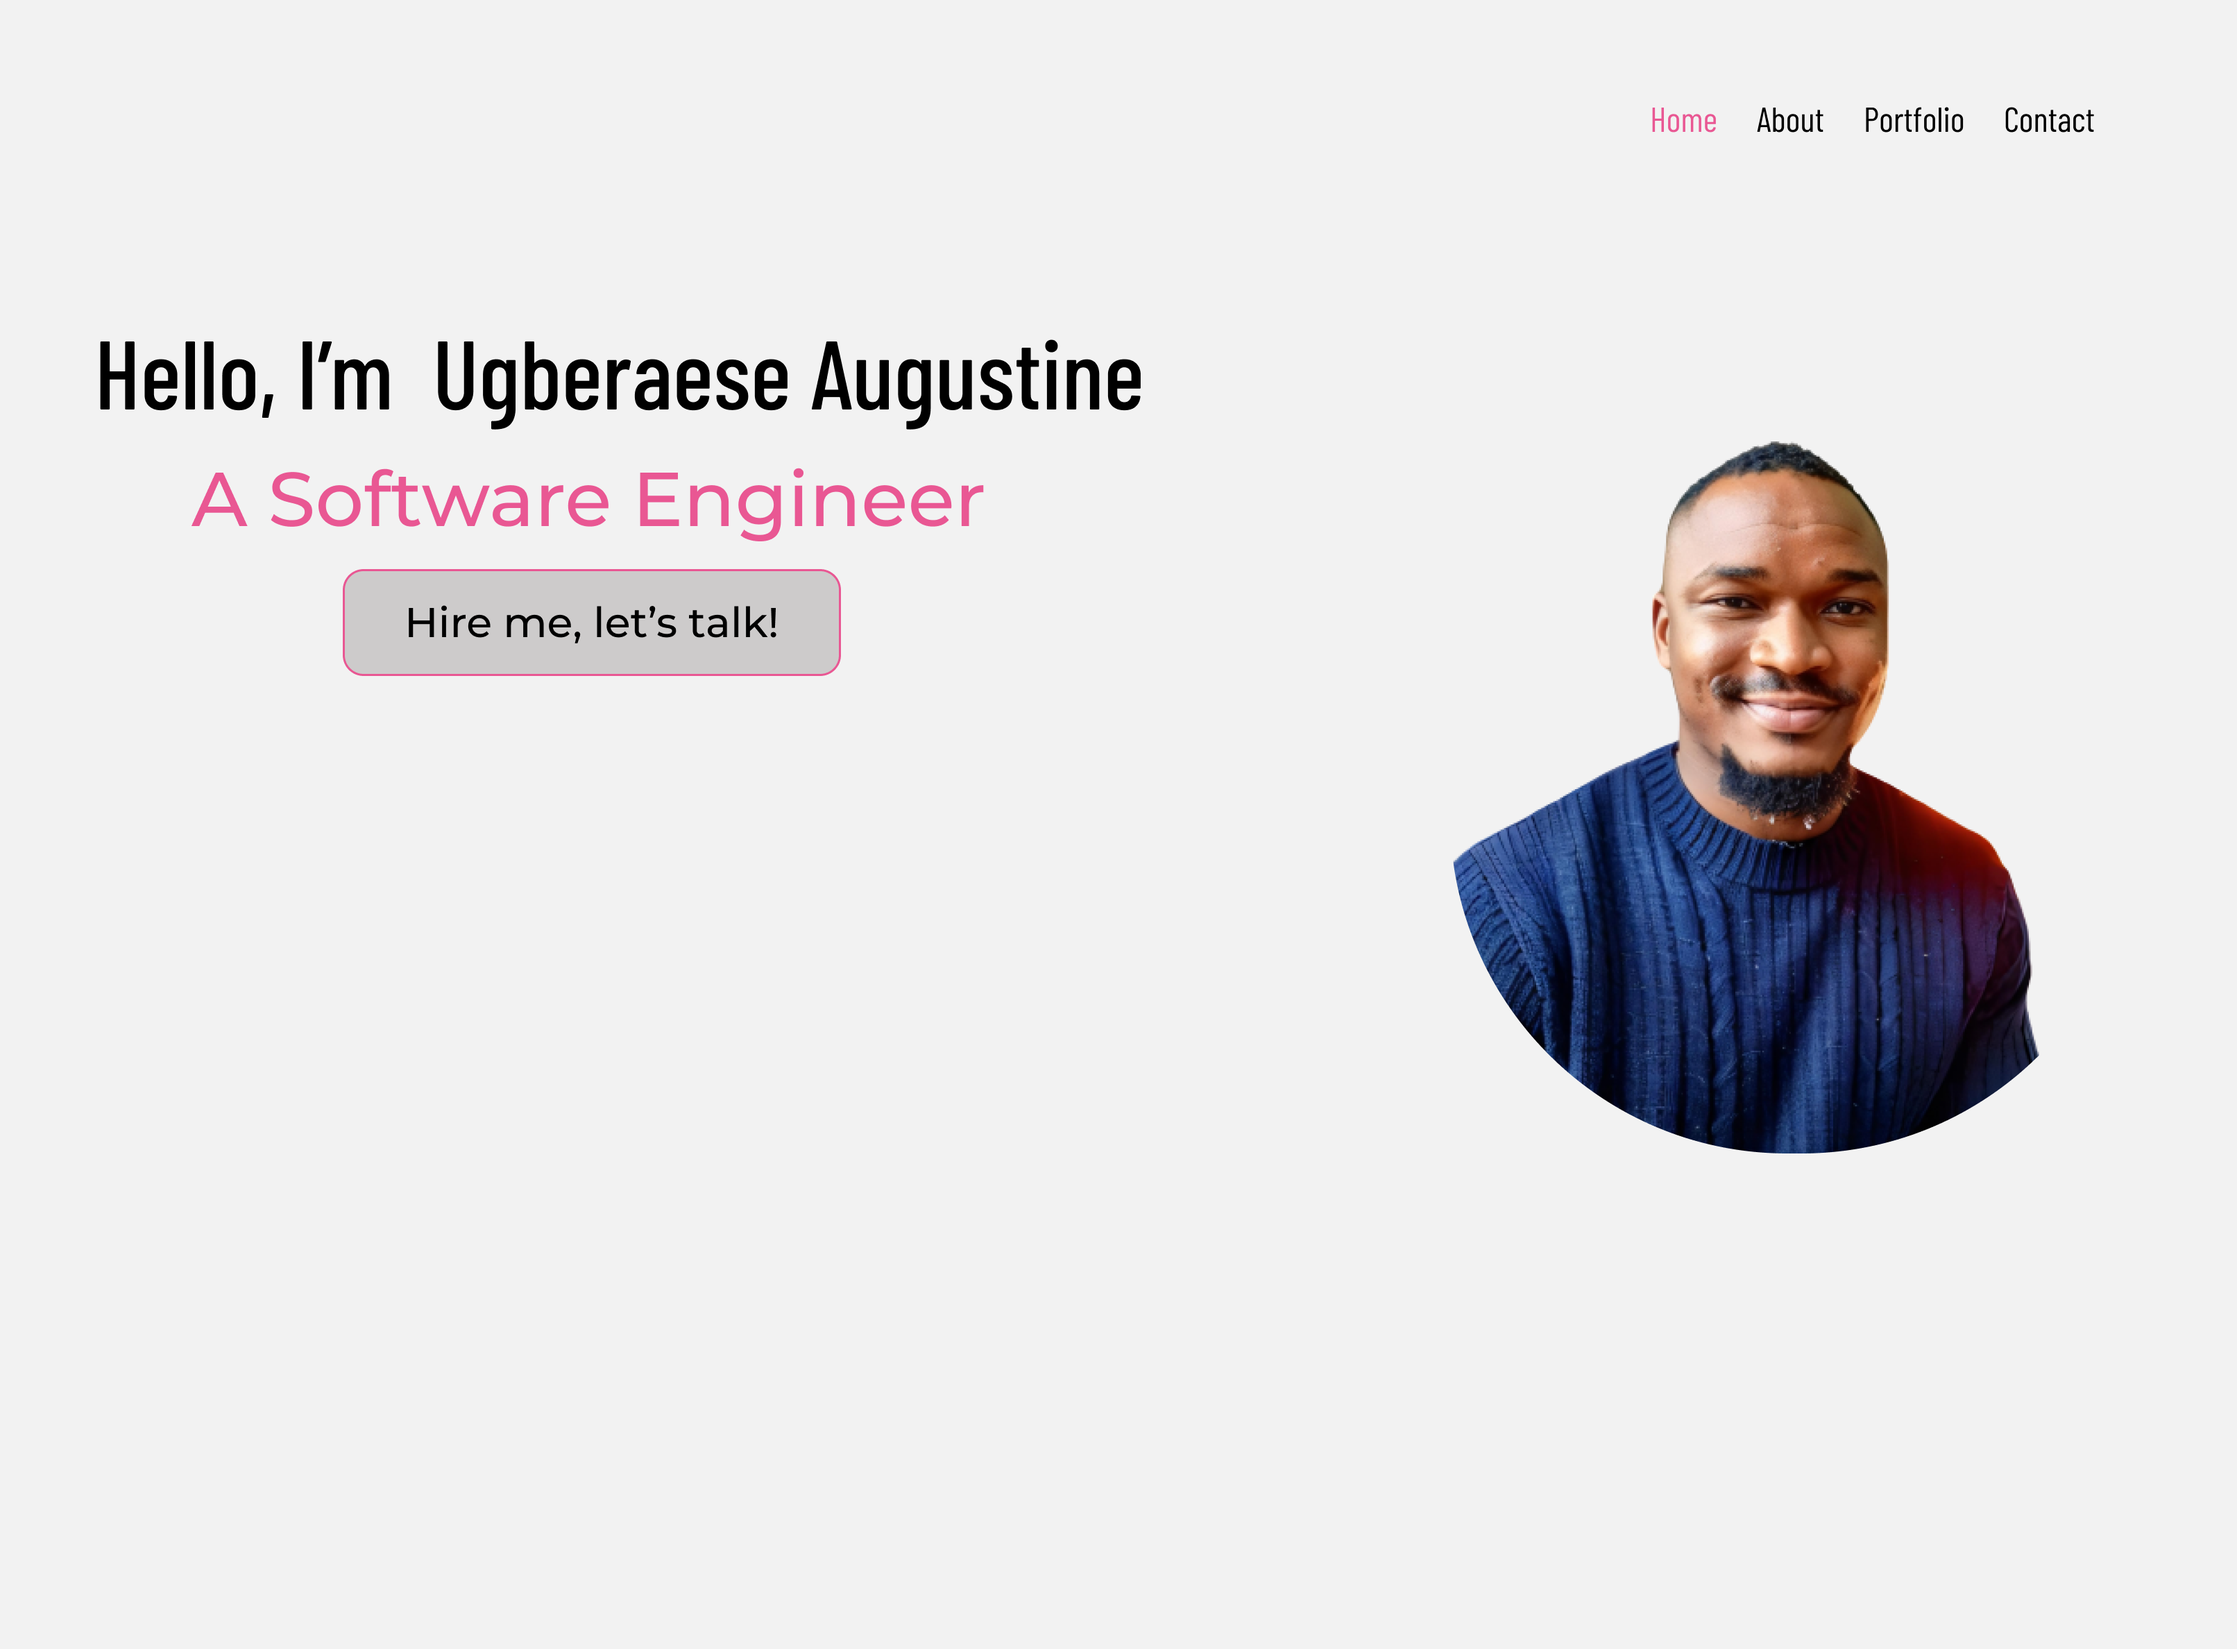
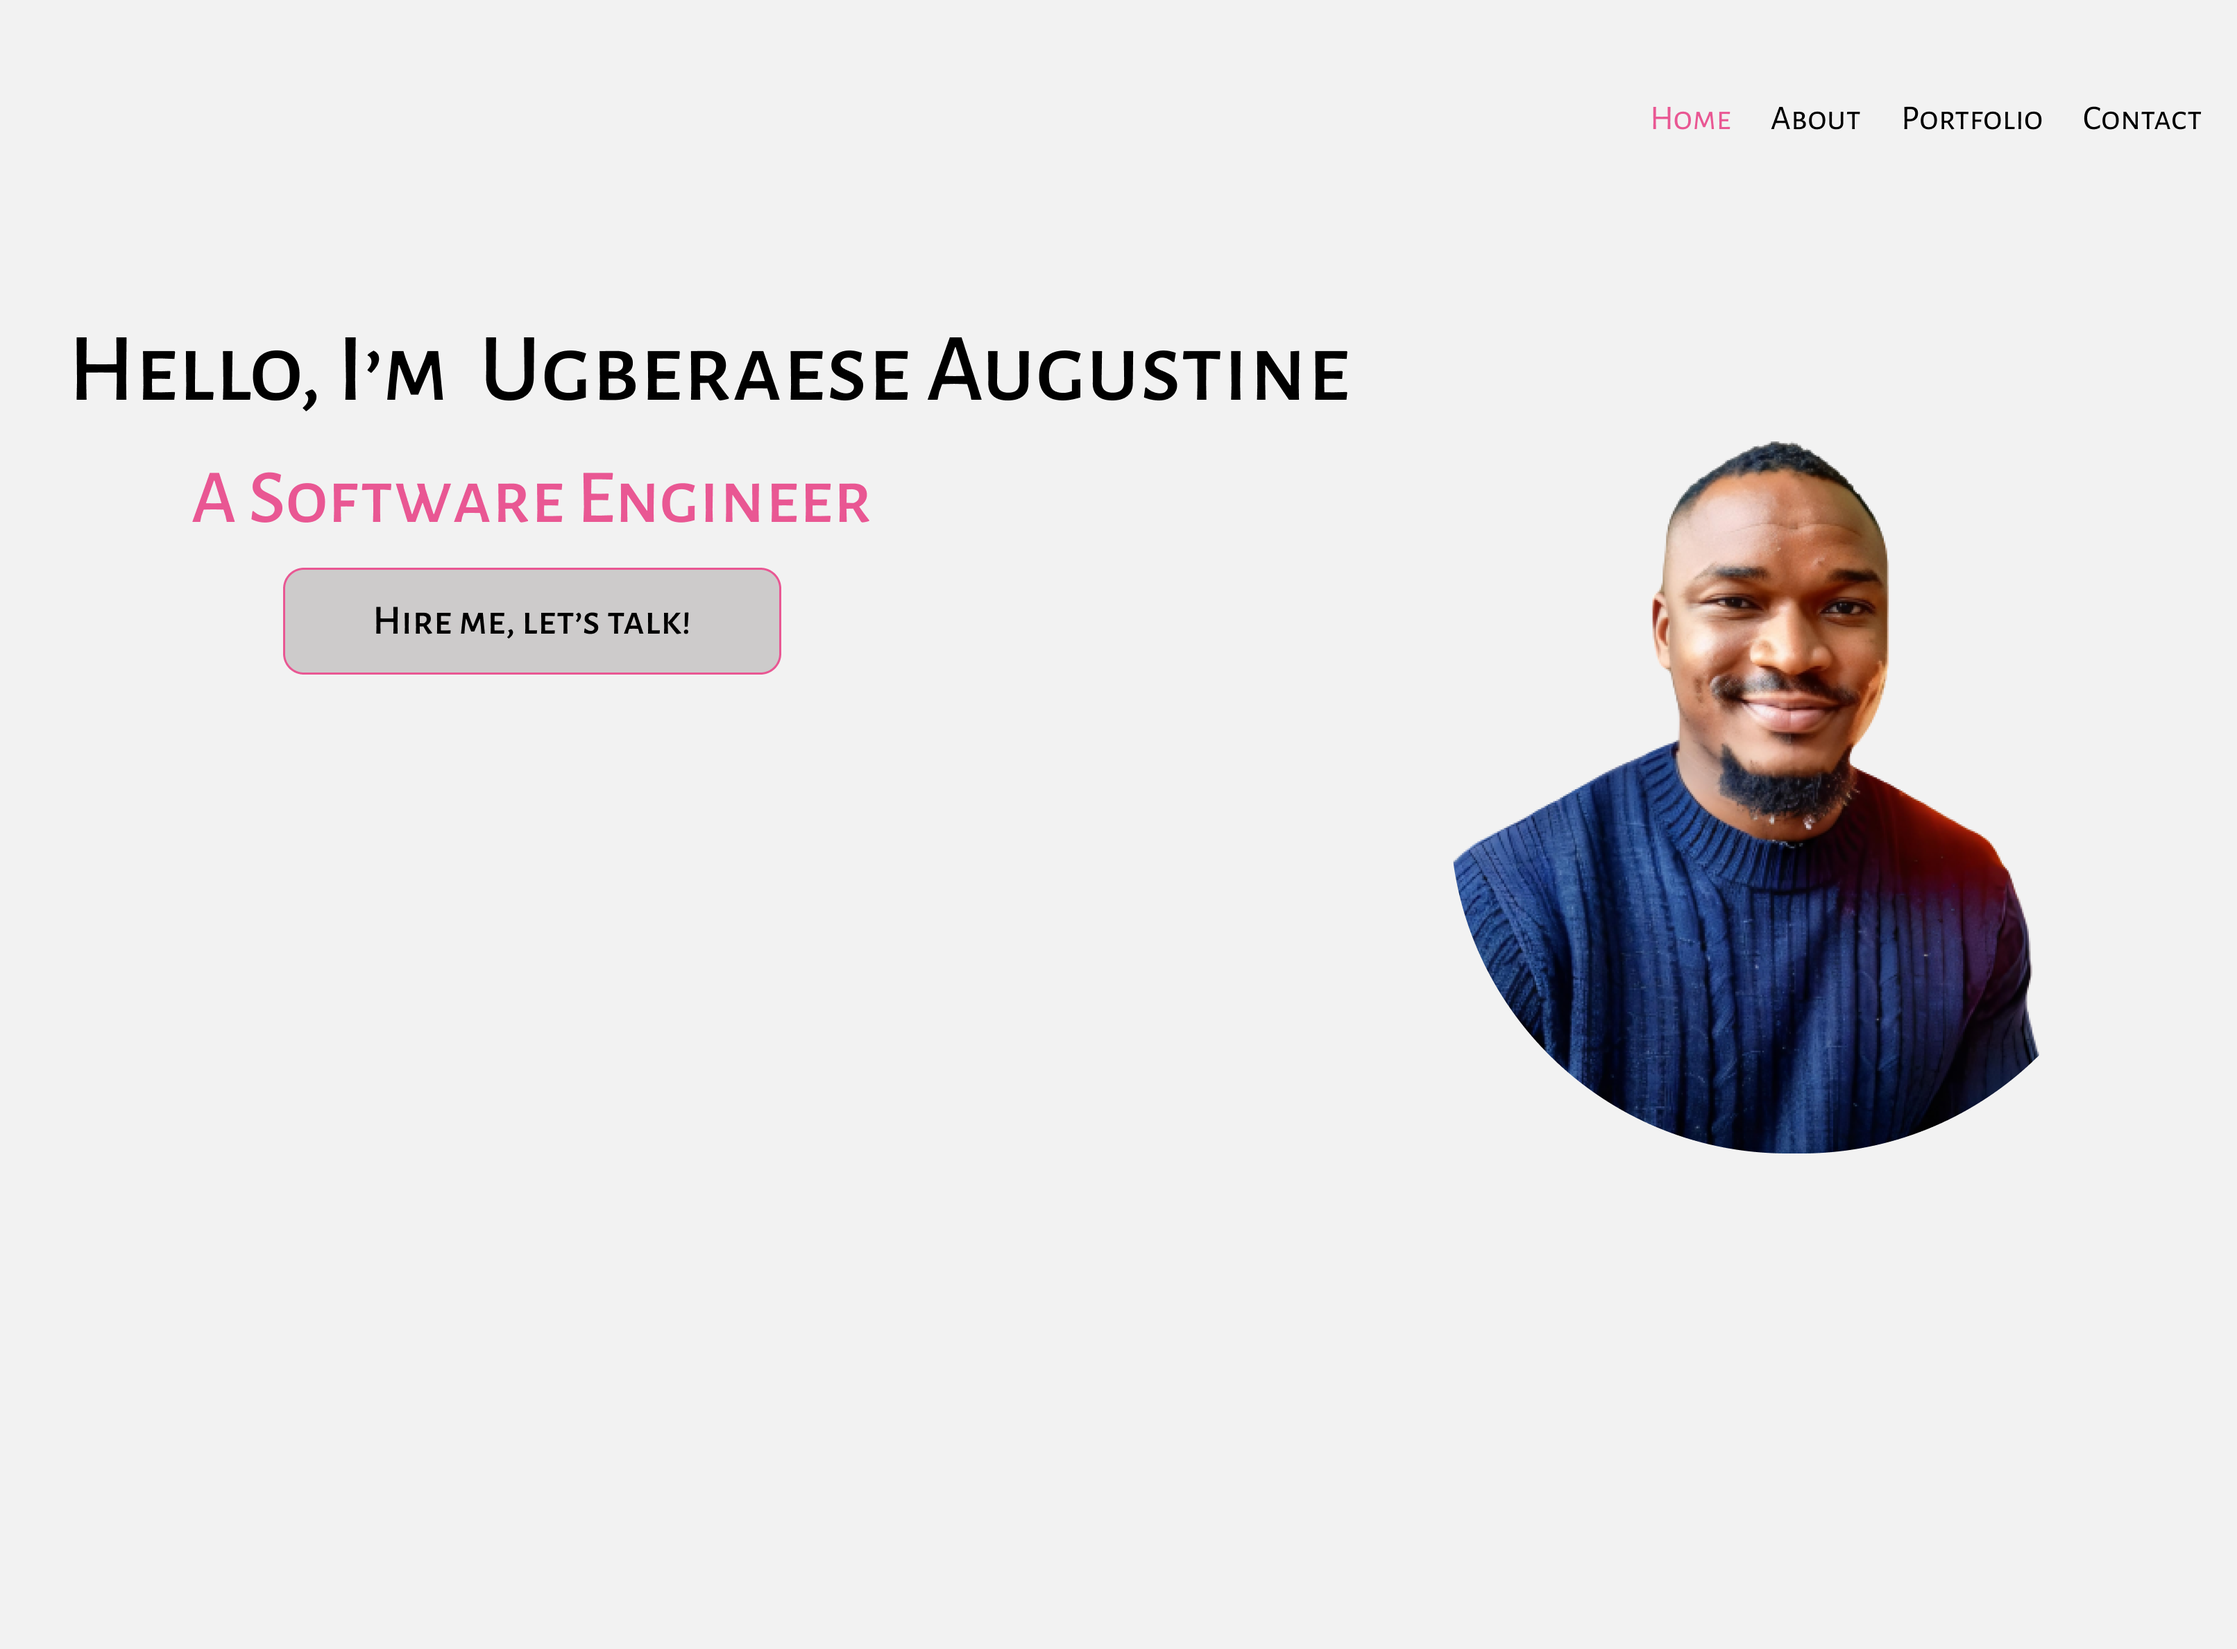
updated

Changed region(s): [[0.0931, 0.2803, 0.4342, 0.436], [0.031, 0.1869, 0.6203, 0.2492], [0.7444, 0.0623, 0.9615, 0.0934]]

diff --git a/index.html b/index.html
@@ -1,0 +1,27 @@
+<!DOCTYPE html>
+<html lang="en">
+<head>
+    <meta charset="UTF-8">
+    <meta name="viewport" content="width=device-width, initial-scale=1.0">
+    <title>My Portfolio Website</title>
+    <link rel="stylesheet" href="./CSS/style.css">
+</head>
+<body>
+    <script src="./JAVASCRIPT/portfolio.js"></script>
+   
+    <!-- Navigation bar-->
+    <header class="nav-bar">
+        <nav class="nav-list">
+           <a href="#Home">Home</a> 
+           <a href="#About">About</a> 
+           <a href="#Portfolio">Portfolio</a> 
+           <a href="#Contact">Contact</a> 
+        </nav>
+    </header>
+    <!-- End of Navigation bar-->
+    
+    <main>
+        <h1 class="heading">Hello, I'm Ugberaese Augustine</h1>
+    </main>
+</body>
+</html>

diff --git a/CSS/style.css b/CSS/style.css
@@ -1,0 +1,7 @@
+
+@import url('https://fonts.googleapis.com/css2?family=Alegreya+Sans+SC&display=swap');
+
+* {
+
+    font-family: 'Alegreya Sans SC', sans-serif; 
+}
